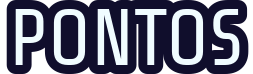
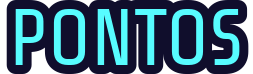
Tela final: tech elements, rótulo azul e valor branco, posição no ranking com medalha, bombas usadas
- Painel do resultado sem borda, com os tech elements nos cantos superior direito e inferior esquerdo, avatar maior, rótulo em azul e valor em branco (contador: TIME vermelho e número branco).
- Linha da posição no ranking abaixo do título (imagem que o Client grava em SHMUPX_POSICAO_ARQUIVO, com a medalha no top 3), preenchida quando chega.
- Bombas usadas: campo bombs do mapa (Darius Gaiden: 0x41b1f1) vira bombs_used no plugin.

Changed region(s): [[0.0553, 0.1081, 0.8024, 0.8919], [0.83, 0.1081, 0.9684, 0.8919]]

diff --git a/tools/caravana_glifos.py b/tools/caravana_glifos.py
@@ -1,7 +1,8 @@
 """Gera as imagens do contador do Caravan (plugins/shmupx/caravana/*.png).
 
 O contador fica no estilo dos placares de arcade: o rótulo TIME no vermelho do ShmupX e os dígitos
-grandes no ciano do ShmupX, sólidos e com contorno escuro, na fonte do ShmupX Client (Share Tech).
+grandes em branco, sólidos e com contorno escuro, na fonte do ShmupX Client (Share Tech). Padrão do
+painel de resultado: rótulo em azul (ciano do ShmupX) e valor em branco.
 Também gera os textos do resultado do fim do Caravan (TEMPO ESGOTADO, PONTOS, VIDAS PERDIDAS).
 O plugin desenha cada caractere como uma textura (sem custo de fonte a cada quadro).
 
@@ -19,7 +20,7 @@ CONTORNO = 9
 CIANO = (0x57, 0xFC, 0xFF)
 VERMELHO = (0xFD, 0x48, 0x51)
 BRANCO = (0xF0, 0xFC, 0xFF)
-DIGITO_TOPO = DIGITO_BASE = CIANO
+DIGITO_TOPO = DIGITO_BASE = (255, 255, 255)
 ROTULO_TOPO = ROTULO_BASE = VERMELHO
 CONTORNO_COR = (16, 14, 44, 255)
 
@@ -71,8 +72,8 @@ def main():
     # Resultado do fim do Caravan (o jogo pausa e mostra os pontos e as vidas perdidas).
     glifo("TEMPO ESGOTADO", fonte_rotulo, VERMELHO, VERMELHO).save(SAIDA / "tempo_esgotado.png", optimize=True)
     glifo("FIM DE JOGO", fonte_rotulo, VERMELHO, VERMELHO).save(SAIDA / "fim_de_jogo.png", optimize=True)
-    glifo("PONTOS", fonte_rotulo, BRANCO, BRANCO).save(SAIDA / "pontos.png", optimize=True)
-    glifo("VIDAS PERDIDAS", fonte_rotulo, BRANCO, BRANCO).save(SAIDA / "vidas_perdidas.png", optimize=True)
+    glifo("PONTOS", fonte_rotulo, CIANO, CIANO).save(SAIDA / "pontos.png", optimize=True)
+    glifo("VIDAS PERDIDAS", fonte_rotulo, CIANO, CIANO).save(SAIDA / "vidas_perdidas.png", optimize=True)
     print(f"glifos em {SAIDA}")
 
 
